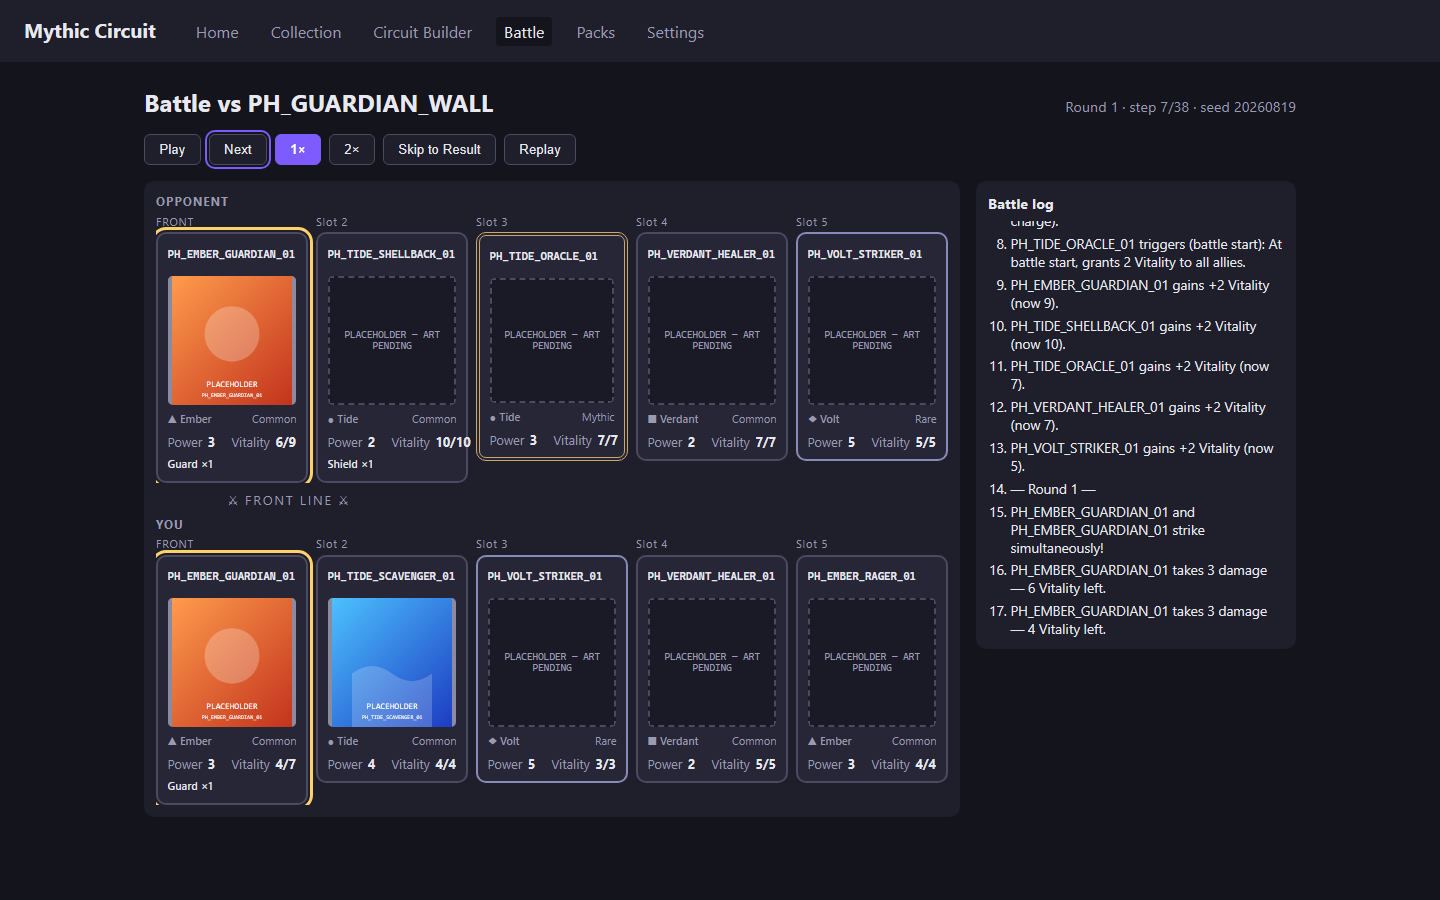
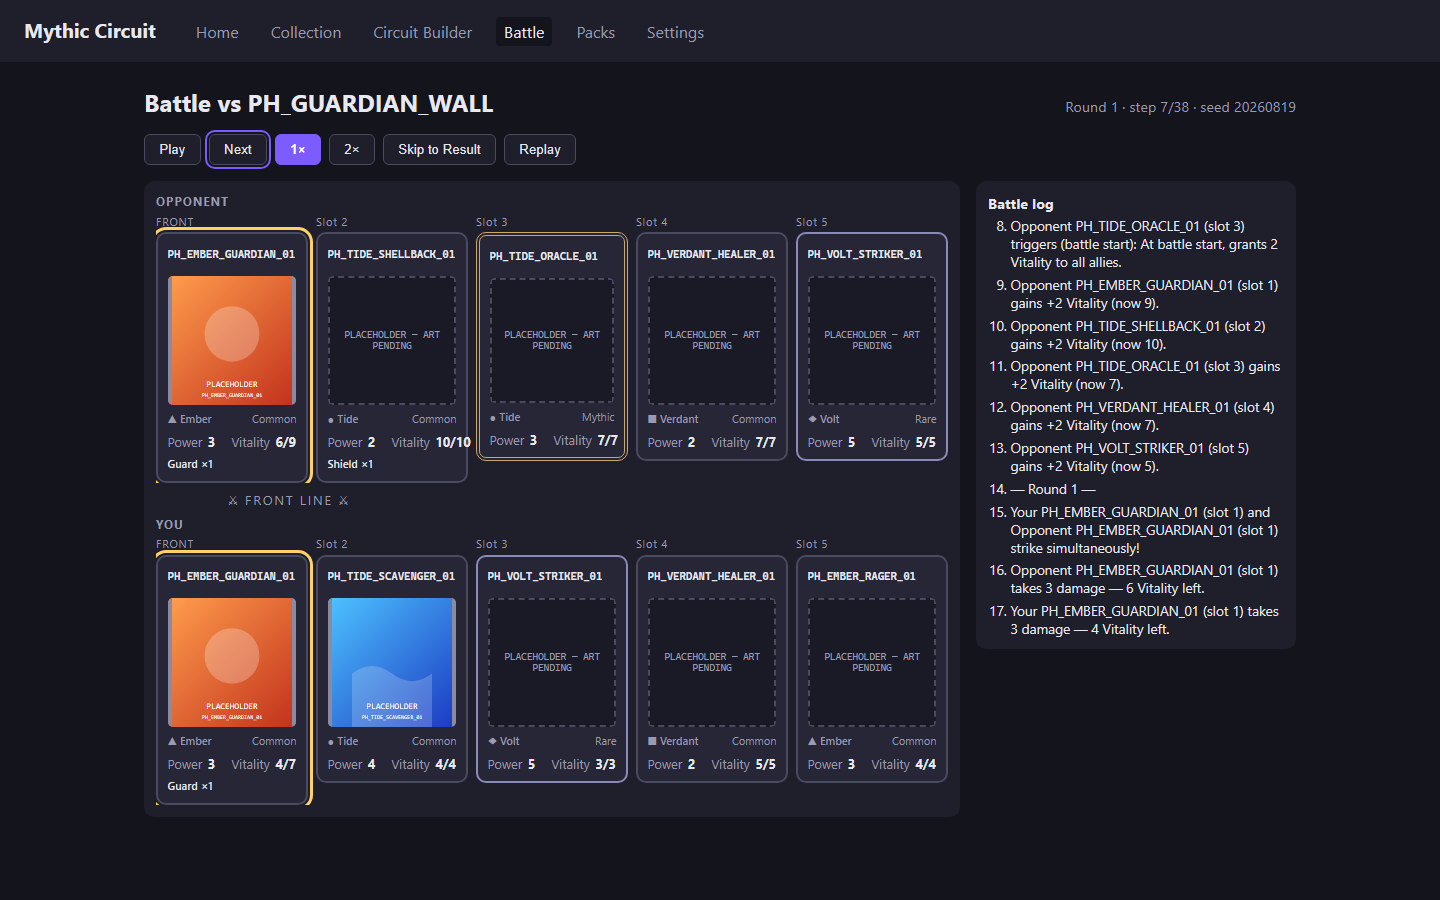
Phase 0 / Stage 0.3 — Gate correction: side-aware battle log text
Gate-review correction (STAGE_0.3_GATE_REVIEW.md): all playback log lines now
identify creatures by side and slot — "Your PH_EMBER_GUARDIAN_01 (slot 1)" vs
"Opponent PH_EMBER_GUARDIAN_01 (slot 1)" — using the display state at the time
of each event, so slot labels stay accurate after compression and same-named
summon tokens remain distinguishable. Presentation text only; engine event log
and combat semantics untouched.

Three focused tests added per the review (90 total): distinct per-side lines for
identical creature identities, post-compression slot accuracy, and side/position
in guard-redirection text. Full command list rerun (typecheck, lint, 90/90
tests, validate:content, sim, build, 4/4 e2e) and browser screenshots refreshed;
correction section appended to STAGE_0.3_COMPLETION_REPORT.md.

Also: .prettierignore now excludes owner-managed root HTML documents (the
Creative Direction doc was restored untouched from git).

Changed region(s): [[0.6875, 0.2489, 0.9062, 0.5289], [0.6875, 0.56, 0.875, 0.7156]]

diff --git a/src/ui/battle/playback.test.ts b/src/ui/battle/playback.test.ts
@@ -209,7 +209,9 @@ describe('buildPlayback state reconstruction', () => {
     const snipeFrame = at('trigger', 2);
     expect(snipeFrame?.state.player[0]?.guard).toBe(0); // charge consumed by redirect
     expect(snipeFrame?.state.player[0]?.vitality).toBe(3);
-    expect(snipeFrame?.logLines.join(' ')).toContain('PH_A intercepts the hit aimed at PH_B');
+    expect(snipeFrame?.logLines.join(' ')).toContain(
+      'Your PH_A (slot 1) intercepts the hit aimed at Your PH_B (slot 2)',
+    );
   });
 
   it('applies the simultaneous exchange: shield block + lethal damage + defeat', () => {
@@ -220,9 +222,9 @@ describe('buildPlayback state reconstruction', () => {
     expect(exchange?.state.player[0]?.defeated).toBe(true);
     expect(exchange?.sourceIds).toEqual(['player-1', 'opponent-1']);
     const log = exchange?.logLines.join(' ') ?? '';
-    expect(log).toContain('strike simultaneously');
-    expect(log).toContain("PH_X's shield blocks the hit");
-    expect(log).toContain('PH_A is defeated');
+    expect(log).toContain('Your PH_A (slot 1) and Opponent PH_X (slot 1) strike simultaneously!');
+    expect(log).toContain('A shield blocks the hit on Opponent PH_X (slot 1)');
+    expect(log).toContain('Your PH_A (slot 1) is defeated');
   });
 
   it('appends summons, applies heal and both buff kinds', () => {
@@ -250,7 +252,159 @@ describe('buildPlayback state reconstruction', () => {
     // Attack at ×1.5 was blocked; verify the ×1 hit has no note and a modified log works.
     const exchange = at('exchange');
     const damageLine = exchange?.logLines.find((l) => l.includes('takes 3 damage'));
-    expect(damageLine).toBe('PH_A takes 3 damage — 0 Vitality left.');
+    expect(damageLine).toBe('Your PH_A (slot 1) takes 3 damage — 0 Vitality left.');
+  });
+});
+
+describe('side-aware log text (Stage 0.3 gate correction)', () => {
+  it('distinguishes identical creature identities on opposing sides', () => {
+    const events: BattleEvent[] = [
+      {
+        type: 'battle_start',
+        player: [snap('player-1', 'PH_SAME', 'player', 0)],
+        opponent: [snap('opponent-1', 'PH_SAME', 'opponent', 0)],
+      },
+      {
+        type: 'trigger_fired',
+        trigger: 'battle_start',
+        sourceId: 'player-1',
+        abilityId: 'ab-x',
+      },
+      {
+        type: 'trigger_fired',
+        trigger: 'battle_start',
+        sourceId: 'opponent-1',
+        abilityId: 'ab-x',
+      },
+      { type: 'round_start', round: 1 },
+      {
+        type: 'attack',
+        attackerId: 'player-1',
+        defenderId: 'opponent-1',
+        amount: 3,
+        multiplier: 1,
+      },
+      {
+        type: 'attack',
+        attackerId: 'opponent-1',
+        defenderId: 'player-1',
+        amount: 3,
+        multiplier: 1,
+      },
+      {
+        type: 'damage',
+        targetId: 'opponent-1',
+        amount: 3,
+        remainingVitality: 2,
+        blockedByShield: false,
+        cause: { kind: 'attack', attackerId: 'player-1' },
+      },
+      {
+        type: 'damage',
+        targetId: 'player-1',
+        amount: 3,
+        remainingVitality: 2,
+        blockedByShield: false,
+        cause: { kind: 'attack', attackerId: 'opponent-1' },
+      },
+    ];
+    const lines = buildPlayback(events).flatMap((f) => f.logLines);
+    // Trigger lines are distinct per side.
+    expect(lines).toContainEqual(expect.stringContaining('Your PH_SAME (slot 1) triggers'));
+    expect(lines).toContainEqual(expect.stringContaining('Opponent PH_SAME (slot 1) triggers'));
+    // Attack headline names both sides.
+    expect(lines).toContainEqual(
+      'Your PH_SAME (slot 1) and Opponent PH_SAME (slot 1) strike simultaneously!',
+    );
+    // Damage lines are distinct per side.
+    expect(lines).toContainEqual('Opponent PH_SAME (slot 1) takes 3 damage — 2 Vitality left.');
+    expect(lines).toContainEqual('Your PH_SAME (slot 1) takes 3 damage — 2 Vitality left.');
+  });
+
+  it('slot labels reflect the pre-event lineup after compression', () => {
+    const events: BattleEvent[] = [
+      {
+        type: 'battle_start',
+        player: [
+          snap('player-1', 'PH_ONE', 'player', 0),
+          snap('player-2', 'PH_TWO', 'player', 1),
+          snap('player-3', 'PH_THREE', 'player', 2),
+        ],
+        opponent: [snap('opponent-1', 'PH_FOE', 'opponent', 0)],
+      },
+      {
+        type: 'trigger_fired',
+        trigger: 'battle_start',
+        sourceId: 'opponent-1',
+        abilityId: 'ab-snipe',
+      },
+      {
+        type: 'damage',
+        targetId: 'player-1',
+        amount: 9,
+        remainingVitality: 0,
+        blockedByShield: false,
+        cause: {
+          kind: 'ability',
+          abilityId: 'ab-snipe',
+          sourceId: 'opponent-1',
+          trigger: 'battle_start',
+        },
+      },
+      {
+        type: 'defeat',
+        instanceId: 'player-1',
+        side: 'player',
+        slot: 0,
+        cause: {
+          kind: 'ability',
+          abilityId: 'ab-snipe',
+          sourceId: 'opponent-1',
+          trigger: 'battle_start',
+        },
+      },
+      {
+        type: 'compression',
+        side: 'player',
+        removedIds: ['player-1'],
+        order: ['player-2', 'player-3'],
+      },
+      { type: 'round_start', round: 1 },
+      {
+        type: 'trigger_fired',
+        trigger: 'before_own_attack',
+        sourceId: 'player-3',
+        abilityId: 'ab-rage',
+      },
+      {
+        type: 'buff',
+        targetId: 'player-3',
+        stat: 'power',
+        amount: 1,
+        newValue: 4,
+        cause: {
+          kind: 'ability',
+          abilityId: 'ab-rage',
+          sourceId: 'player-3',
+          trigger: 'before_own_attack',
+        },
+      },
+    ];
+    const lines = buildPlayback(events).flatMap((f) => f.logLines);
+    // Before compression, PH_THREE sat in slot 3; afterwards its lines say slot 2.
+    expect(lines).toContainEqual(expect.stringContaining('Your PH_THREE (slot 2) triggers'));
+    expect(lines).toContainEqual('Your PH_THREE (slot 2) gains +1 Power (now 4).');
+    // The defeat that happened BEFORE compression still uses the old slot.
+    expect(lines).toContainEqual('Your PH_ONE (slot 1) is defeated.');
+  });
+
+  it('guard redirection distinguishes protector and intended target by side and position', () => {
+    const frames = buildPlayback(syntheticEvents);
+    const redirectLine = frames.flatMap((f) => f.logLines).find((l) => l.includes('intercepts'));
+    expect(redirectLine).toBe(
+      'Your PH_A (slot 1) intercepts the hit aimed at Your PH_B (slot 2)! ' +
+        'Your PH_A (slot 1) takes 2 damage — 3 Vitality left.',
+    );
   });
 });
 

diff --git a/ai-communication-docs/phase-0/reports/STAGE_0.3_COMPLETION_REPORT.md b/ai-communication-docs/phase-0/reports/STAGE_0.3_COMPLETION_REPORT.md
@@ -67,17 +67,17 @@ Result panel on `battle_end`: outcome heading (Victory! / Defeat / **Draw — aw
 |---|---|---|
 | battle_start | Both lineups appear, FRONT tags | "Battle begins!" |
 | round_start | Round indicator updates (aria-live) | "— Round N —" |
-| trigger_fired | Source card gets solid outline | "NAME triggers (trigger): full ability description" |
-| attack | Both attackers outlined (one frame) | "A and B strike simultaneously!" |
-| damage | Vitality number drops; target dashed outline | "X takes N damage (×1.5 element advantage) — M Vitality left." |
-| heal | Vitality number rises | "X recovers N Vitality (now M)." |
-| buff | Power/Vitality numbers rise | "X gains +N Power (now M)." |
-| shield | "Shield ×N" badge on card | "X raises a shield (N charges)." |
-| guard | "Guard ×N" badge on card | "X guards the ally behind it (N charges)." |
-| shield block | Badge count drops; Vitality unchanged | "X's shield blocks the hit." |
-| guard redirect | Guard badge drops; damage lands on guardian | "G intercepts the hit aimed at V! G takes N damage…" |
-| summon | Token card appears in last slot | "PH_SUMMON_TOKEN is summoned into the last slot (3/3)." |
-| defeat | Card dims + "DEFEATED" label | "X is defeated." |
+| trigger_fired | Source card gets solid outline | "Your NAME (slot 1) triggers (trigger): full ability description" |
+| attack | Both attackers outlined (one frame) | "Your A (slot 1) and Opponent B (slot 1) strike simultaneously!" |
+| damage | Vitality number drops; target dashed outline | "Opponent X (slot 1) takes N damage (×1.5 element advantage) — M Vitality left." |
+| heal | Vitality number rises | "Your X (slot 2) recovers N Vitality (now M)." |
+| buff | Power/Vitality numbers rise | "Your X (slot 3) gains +N Power (now M)." |
+| shield | "Shield ×N" badge on card | "Opponent X (slot 2) raises a shield (N charges)." |
+| guard | "Guard ×N" badge on card | "Your X (slot 1) guards the ally behind it (N charges)." |
+| shield block | Badge count drops; Vitality unchanged | "A shield blocks the hit on Opponent X (slot 1)." |
+| guard redirect | Guard badge drops; damage lands on guardian | "Your G (slot 4) intercepts the hit aimed at Your V (slot 5)! Your G (slot 4) takes N damage…" |
+| summon | Token card appears in last slot | "Your PH_SUMMON_TOKEN is summoned into the last slot (3/3)." |
+| defeat | Card dims + "DEFEATED" label | "Your X (slot 1) is defeated." |
 | compression | Row reflows (CSS transition) | "The player/opponent Circuit closes ranks." |
 | battle_end | Result panel appears | Outcome line, e.g. "Draw — … awarded to you." |
 
@@ -140,49 +140,43 @@ Screenshots (in `ai-communication-docs/phase-0/reports/screenshots/`):
 
 ---
 
+## 8. Gate-review correction (2026-08-19, post CHANGES REQUIRED)
+
+**Required correction from `STAGE_0.3_GATE_REVIEW.md`: side-aware log text — DELIVERED.**
+
+- All creature references in playback log lines now use the recommended side-aware format: `Your PH_EMBER_GUARDIAN_01 (slot 1)` / `Opponent PH_EMBER_GUARDIAN_01 (slot 1)` (`sideAwareName()` in `src/ui/battle/playback.ts`). The blocked-shield line was rephrased to "A shield blocks the hit on Opponent X (slot 1)." to keep the side label readable.
+- Slot labels come from the **display state at the time of the event** (the pre-frame state), so they stay accurate after compression, and they keep multiple same-named summon tokens on one side distinguishable. Summon lines take their side directly from the event snapshot (the token is not yet in the pre-frame state).
+- **Engine event log and combat semantics untouched** — this is presentation text only; the engine and its 50 tests are byte-identical.
+- Three focused tests added (90 total now), exactly matching the review's list:
+  1. identical creature identities on opposing sides produce distinct Your/Opponent trigger, attack-headline, and damage lines;
+  2. slot labels reflect the pre-event lineup after compression (PH_THREE reads "slot 2" after the front falls, while the earlier defeat line keeps its original slot);
+  3. guard-redirection text distinguishes protector and intended target by side and slot.
+- Full command list rerun after the correction — `typecheck` 0 · `lint` 0 · `test` **90/90** · `validate:content` 0 · `sim:archetypes` unchanged · `build` 0 · `test:e2e` **4/4**.
+- Browser evidence refreshed: `stage-0.3-battle.png` now shows the mirror-guardian case from the review resolved — "Your PH_EMBER_GUARDIAN_01 (slot 1) and Opponent PH_EMBER_GUARDIAN_01 (slot 1) strike simultaneously!" with distinct per-side damage lines. Builder/result/1024 screenshots re-captured in the same run.
+- Housekeeping found during the rerun: `npm run format` had reformatted the Owner's root document "Mythic Circuit - Creative Direction v1 (standalone).html" (whitespace only). It was restored from git, and `.prettierignore` now excludes root-level HTML other than `index.html` so owner-managed documents are never touched again.
+
 ## Ready-to-paste commit block
 
 ```
 COMMIT TITLE:
-Phase 0 / Stage 0.3 — Circuit builder, event-log battle playback, result loop
+Phase 0 / Stage 0.3 — Gate correction: side-aware battle log text
 
 COMMIT DESCRIPTION:
-Ticket 1 — Zustand match store (ephemeral circuit/opponent/battle result; runBattle
-called exactly once per match) + Playwright harness with npm run test:e2e.
+Gate-review correction (STAGE_0.3_GATE_REVIEW.md): all playback log lines now
+identify creatures by side and slot — "Your PH_EMBER_GUARDIAN_01 (slot 1)" vs
+"Opponent PH_EMBER_GUARDIAN_01 (slot 1)" — using the display state at the time
+of each event, so slot labels stay accurate after compression and same-named
+summon tokens remain distinguishable. Presentation text only; engine event log
+and combat semantics untouched.
 
-Ticket 2 — Runtime content catalog (single validated load, ability interpolation) and
-ONE reusable CreatureCard for builder + battle: stats, element/rarity as text +
-non-color cues, manifest-resolved art with accessible ART PENDING fallback, all
-styling via --card-* CSS tokens. Asset loader now resolves URLs via import.meta.glob.
+Three focused tests added per the review (90 total): distinct per-side lines for
+identical creature identities, post-compression slot accuracy, and side/position
+in guard-redirection text. Full command list rerun (typecheck, lint, 90/90
+tests, validate:content, sim, build, 4/4 e2e) and browser screenshots refreshed;
+correction section appended to STAGE_0.3_COMPLETION_REPORT.md.
 
-Ticket 3 — Functional Circuit Builder: 12-creature roster, ordered slots 1–5 with
-front/rear labels, drag AND keyboard reordering, duplicate/overfill prevention,
-validateLineup()-backed messages, Reset, gated Battle action.
-
-Ticket 4 — Three archetype opponents as validated content data
-(opponent-lineups.json, with new referential checks), ordered preview, fixed
-documented seed (20260819), friendly /battle empty state.
-
-Ticket 5 — Pure playback model: event-log folding into frames (attack pair + damage
-= one simultaneous-exchange frame), display state incl. charges/summons/compression,
-readable cause-attributed log lines, timing separated from outcome.
-
-Ticket 6 — Battle screen: facing labeled Circuits, source/target highlights,
-Play/Pause/Next/1×/2×/Skip/Replay, persistent battle log.
-
-Ticket 7 — Result panel: outcome (draws labeled and awarded to the player), rounds,
-defeats, trigger/effect activity summary, Edit Circuit + Replay Battle.
-
-Ticket 8 — Keyboard operability, visible focus, non-color cues, prefers-reduced-motion
-support, 1024px+ layouts with no horizontal overflow, and
-CREATIVE_ASSET_DELIVERY_SPEC.md with pinned masters + safe-zone diagram.
-
-Ticket 9 — 37 new unit tests (87 total) + 4 Playwright tests incl. the full
-builder → opponent → battle → skip/result → return workflow and screenshot evidence;
-READMEs updated.
-
-Verification: typecheck, lint, 87/87 unit tests, validate:content (now incl.
-3 opponent lineups), sim:archetypes unchanged, build, and 4/4 e2e all pass; zero
-console errors; browser evidence in reports/screenshots/. Details in
-ai-communication-docs/phase-0/reports/STAGE_0.3_COMPLETION_REPORT.md.
+Also: .prettierignore now excludes owner-managed root HTML documents (the
+Creative Direction doc was restored untouched from git).
 ```
+
+(The original full-stage commit block was superseded: the Stage 0.3 implementation is already committed per the gate review's history note, so the pending commit is the correction above.)
